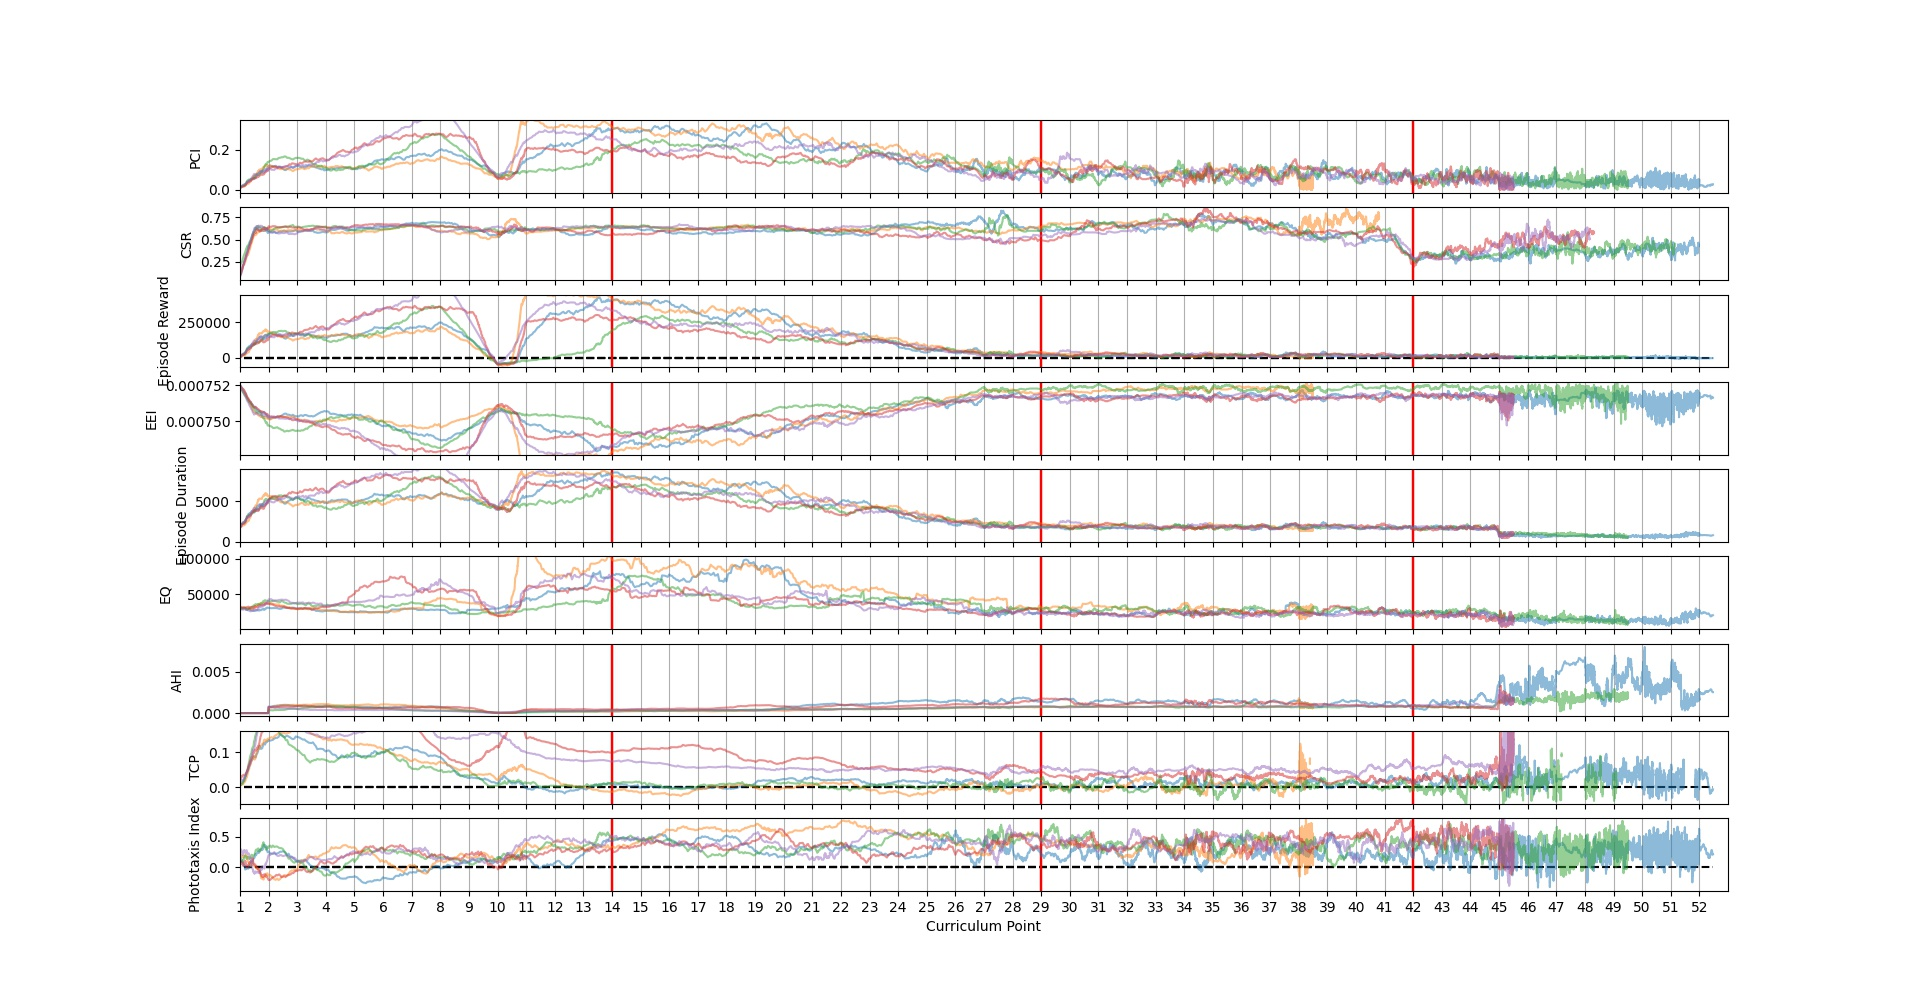
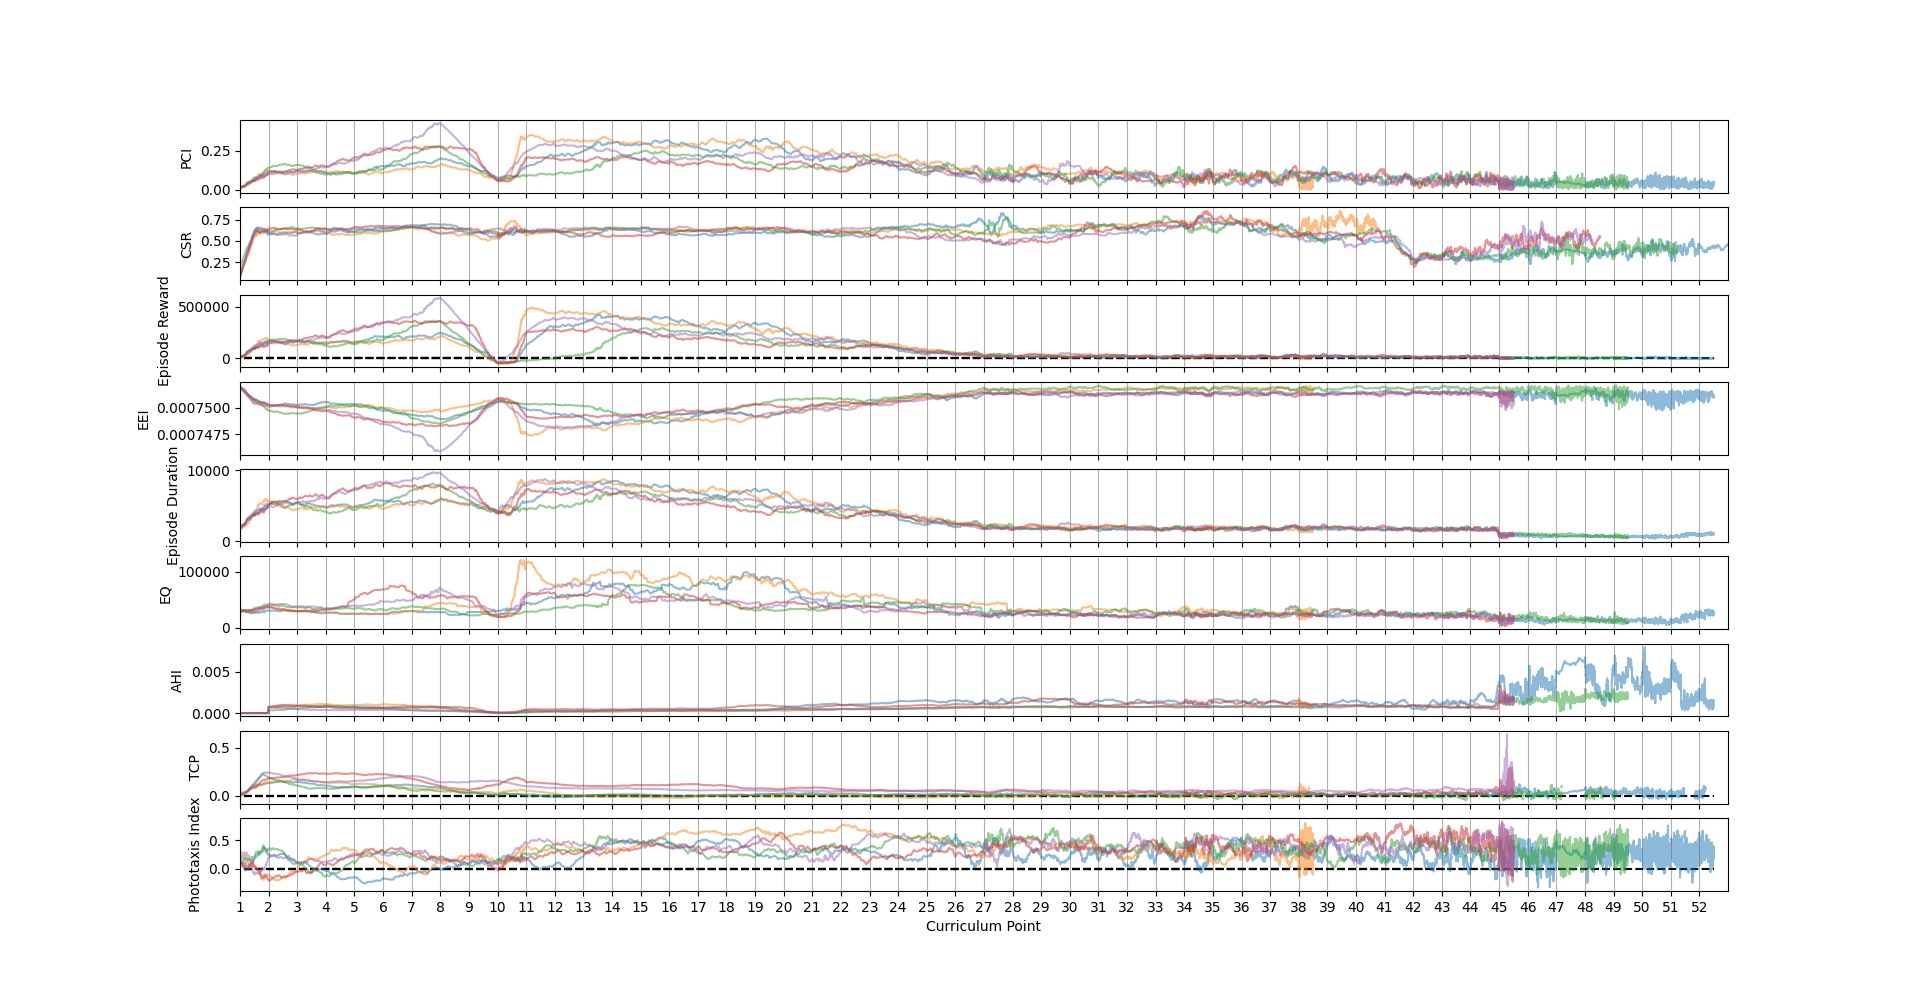
Saving frequency test

diff --git a/Analysis/Training/plot_metrics_newest.py b/Analysis/Training/plot_metrics_newest.py
@@ -62,6 +62,7 @@ def compute_rolling_averages_over_data_scaled_window(data, max_window, scaffold_
         rolling_average_full.append(rolling_average)
         window_start = window_end_index
 
+    rolling_average_full = [r for r in rolling_average_full if len(r) > 0]
     rolling_average = np.concatenate((rolling_average_full), axis=0)
 
     steps_cut = data[:data_points_cut, 0:1]
@@ -259,7 +260,7 @@ def plot_multiple_metrics_multiple_models(model_list, metrics, window, interpola
             if key_scaffold_points is not None:
                 ylim = axs[i].get_ylim()
                 for p in key_scaffold_points:
-                    axs[i].vlines(p, ylim[0], ylim[1], color="r")
+                    axs[i].vlines(p, ylim[0]-ylim[0], ylim[1]+ylim[1], color="r")
                 axs[i].set_ylim(ylim[0], ylim[1])
             axs[i].set_ylabel(metric_name)
 
@@ -298,7 +299,7 @@ def create_zoomed_inset(scaffold_points, metric_vals, metric_name, inset_ylim, f
         plt.plot(scaffold_points[model], metric_vals[model])
 
     ax = plt.gca()
-    ax.set_ylim(inset_ylim)
+    # ax.set_ylim(inset_ylim)
     plt.ylabel(metric_name)
     plt.xlabel("Scaffold Point")
     plt.savefig(f"../../Analysis-Output/Training/{figure_name}_inset.jpg")
@@ -382,25 +383,25 @@ if __name__ == "__main__":
                           # "Phototaxis Index"
                           ]
     chosen_metrics_ppo_mod = ["prey capture index (fraction caught)",
-                          "capture success rate",
-                          # "episode reward",
-                          # "Energy Efficiency Index",
-                          "Episode Duration",
-                          # "Exploration Quotient",
-                          # "turn chain preference",
-                          # "Cause of Death",
-                          # Sand grain attempted captures.
-                          # DQN only
-                          "predator avoidance index (avoided/p_pred)",
-                          # "Phototaxis Index"
-                          ]
+                              "capture success rate",
+                              # "episode reward",
+                              # "Energy Efficiency Index",
+                              "Episode Duration",
+                              # "Exploration Quotient",
+                              # "turn chain preference",
+                              # "Cause of Death",
+                              # Sand grain attempted captures.
+                              # DQN only
+                              "predator avoidance index (avoided/p_pred)",
+                              # "Phototaxis Index"
+                              ]
     plot_multiple_metrics_multiple_models(dqn_models, chosen_metrics_dqn, window=40, interpolate_scaffold_points=True,
                                           figure_name="dqn_beta", scaled_window=False,
-                                          show_inset=["capture success rate", 10], key_scaffold_points=[14, 29, 42])
-    plot_multiple_metrics_multiple_models(dqn_models_mod, chosen_metrics_dqn_mod, window=40, interpolate_scaffold_points=True,
+                                          show_inset=["capture success rate", 10])# key_scaffold_points=[14, 29, 42])
+    plot_multiple_metrics_multiple_models(dqn_models_mod, chosen_metrics_dqn_mod, window=100, interpolate_scaffold_points=True,
                                           figure_name="dqn_beta_mod", scaled_window=False,
-                                          show_inset=["capture success rate", 18])#, key_scaffold_points=[10, 16, 31])
-    plot_multiple_metrics_multiple_models(ppo_models, chosen_metrics_ppo, window=40, interpolate_scaffold_points=False,
-                                          figure_name="ppo_beta")
-    plot_multiple_metrics_multiple_models(ppo_models_mod, chosen_metrics_ppo_mod, window=40, interpolate_scaffold_points=False,
-                                          figure_name="ppo_beta_mod")
+                                          show_inset=["capture success rate", 23])#, key_scaffold_points=[10, 16, 31])
+    # plot_multiple_metrics_multiple_models(ppo_models, chosen_metrics_ppo, window=100, interpolate_scaffold_points=False,
+    #                                       figure_name="ppo_beta")
+    # plot_multiple_metrics_multiple_models(ppo_models_mod, chosen_metrics_ppo_mod, window=100, interpolate_scaffold_points=False,
+    #                                       figure_name="ppo_beta_mod")

diff --git a/Analysis/Training/plot_scaffold_switching_times.py b/Analysis/Training/plot_scaffold_switching_times.py
@@ -2,11 +2,13 @@ import numpy as np
 import matplotlib.pyplot as plt
 
 from Analysis.Training.load_from_logfiles import load_all_log_data
+from Analysis.Training.plot_metrics_newest import remove_repeated_switching_points
 
 
 def get_all_switching_times(model_name, steps):
     data = load_all_log_data(model_name)
     scaffold_switching_points = np.array(data["Configuration change"])
+    scaffold_switching_points = np.array(remove_repeated_switching_points([scaffold_switching_points])[0])
     scaffold_switching_points = scaffold_switching_points[scaffold_switching_points[:, 1].argsort()]
 
     scaffold_durations_episodes = scaffold_switching_points[1:, 0] - scaffold_switching_points[:-1, 0]
@@ -36,17 +38,19 @@ def plot_scaffold_durations(model_name):
     plt.show()
 
 
-def plot_scaffold_durations_multiple_models(model_list, steps=True):
+def plot_scaffold_durations_multiple_models(model_list, figure_name, steps=True):
     fig, ax = plt.subplots()
     config_compiled = []
     duration_compiled = []
+    fig, axs = plt.subplots(figsize=(30, 20))
 
     for model in model_list:
         config, duration = get_all_switching_times(model, steps)
+
         config_compiled.append(config)
         duration_compiled.append(duration)
 
-    max_config = max([len(c) for c in config_compiled])
+    max_config = int(max([max(c) for c in config_compiled]))
     switching_points = [i for i in range(max_config)]
 
     for duration in duration_compiled:
@@ -55,23 +59,26 @@ def plot_scaffold_durations_multiple_models(model_list, steps=True):
 
     for d, duration in enumerate(duration_compiled):
         if d > 0:
-            ax.bar(switching_points, duration, bottom=bottom_compiled)
+            axs.bar(switching_points[:len(duration)], duration, bottom=bottom_compiled)
             bottom_compiled += np.array(duration)
         else:
             bottom_compiled = np.array(duration)
-            ax.bar(switching_points, duration)
+            switching_points[:len(duration)] = switching_points[:len(duration)]
+            axs.bar(switching_points[:len(duration)], duration)
 
-    plt.xlabel("Scaffold Point")
-    plt.ylabel("Total Steps")
+    axs.set_xlabel("Curriculum Point")
+    axs.set_ylabel("Total Steps")
     plt.legend(model_list)
-    plt.show()
+    plt.savefig(f"../../Analysis-Output/Training/{figure_name}_curriculum_steps.jpg")
+    plt.clf()
+    plt.close()
 
 
 if __name__ == "__main__":
     dqn_models_old = ["dqn_scaffold_30-1", "dqn_scaffold_30-2"]
     dqn_models = ["dqn_beta-1", "dqn_beta-2", "dqn_beta-3", "dqn_beta-4", "dqn_beta-5"]
 
-    plot_scaffold_durations_multiple_models(dqn_models_old, steps=False)
+    plot_scaffold_durations_multiple_models(dqn_models, figure_name="dqn_beta", steps=True)
 
 
 

diff --git a/Services/training_service.py b/Services/training_service.py
@@ -542,6 +542,9 @@ class TrainingService(BaseService):
         else:
             checkpoint_steps = self.learning_params['network_saving_frequency_steps']
 
+        print(f"CHK: {checkpoint_steps}")
+        print(f"Total steps: {self.total_steps}")
+
         if self.total_steps - int(checkpoint_steps) >= self.learning_params['network_saving_frequency_steps']:
             # print(f"mean time: {np.mean(self.training_times)}")
             if self.learning_params["maintain_state"]:
